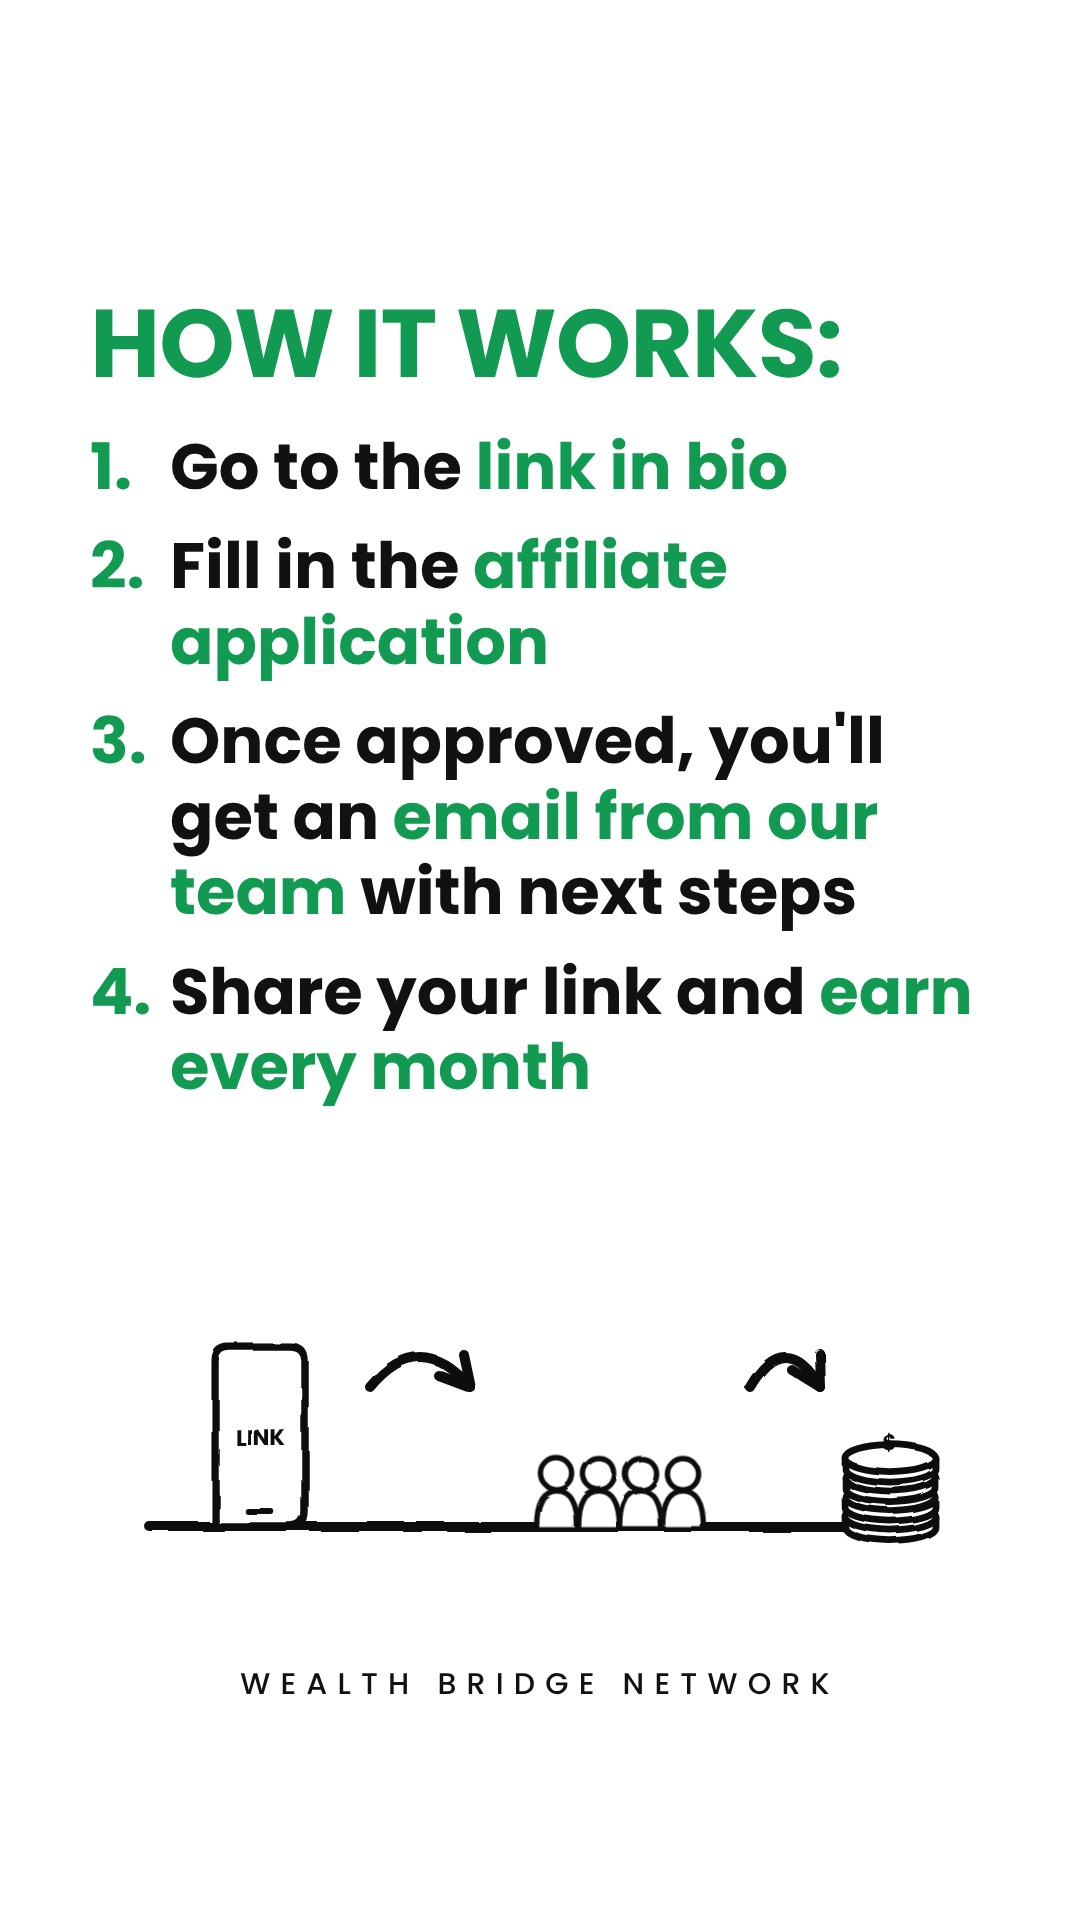
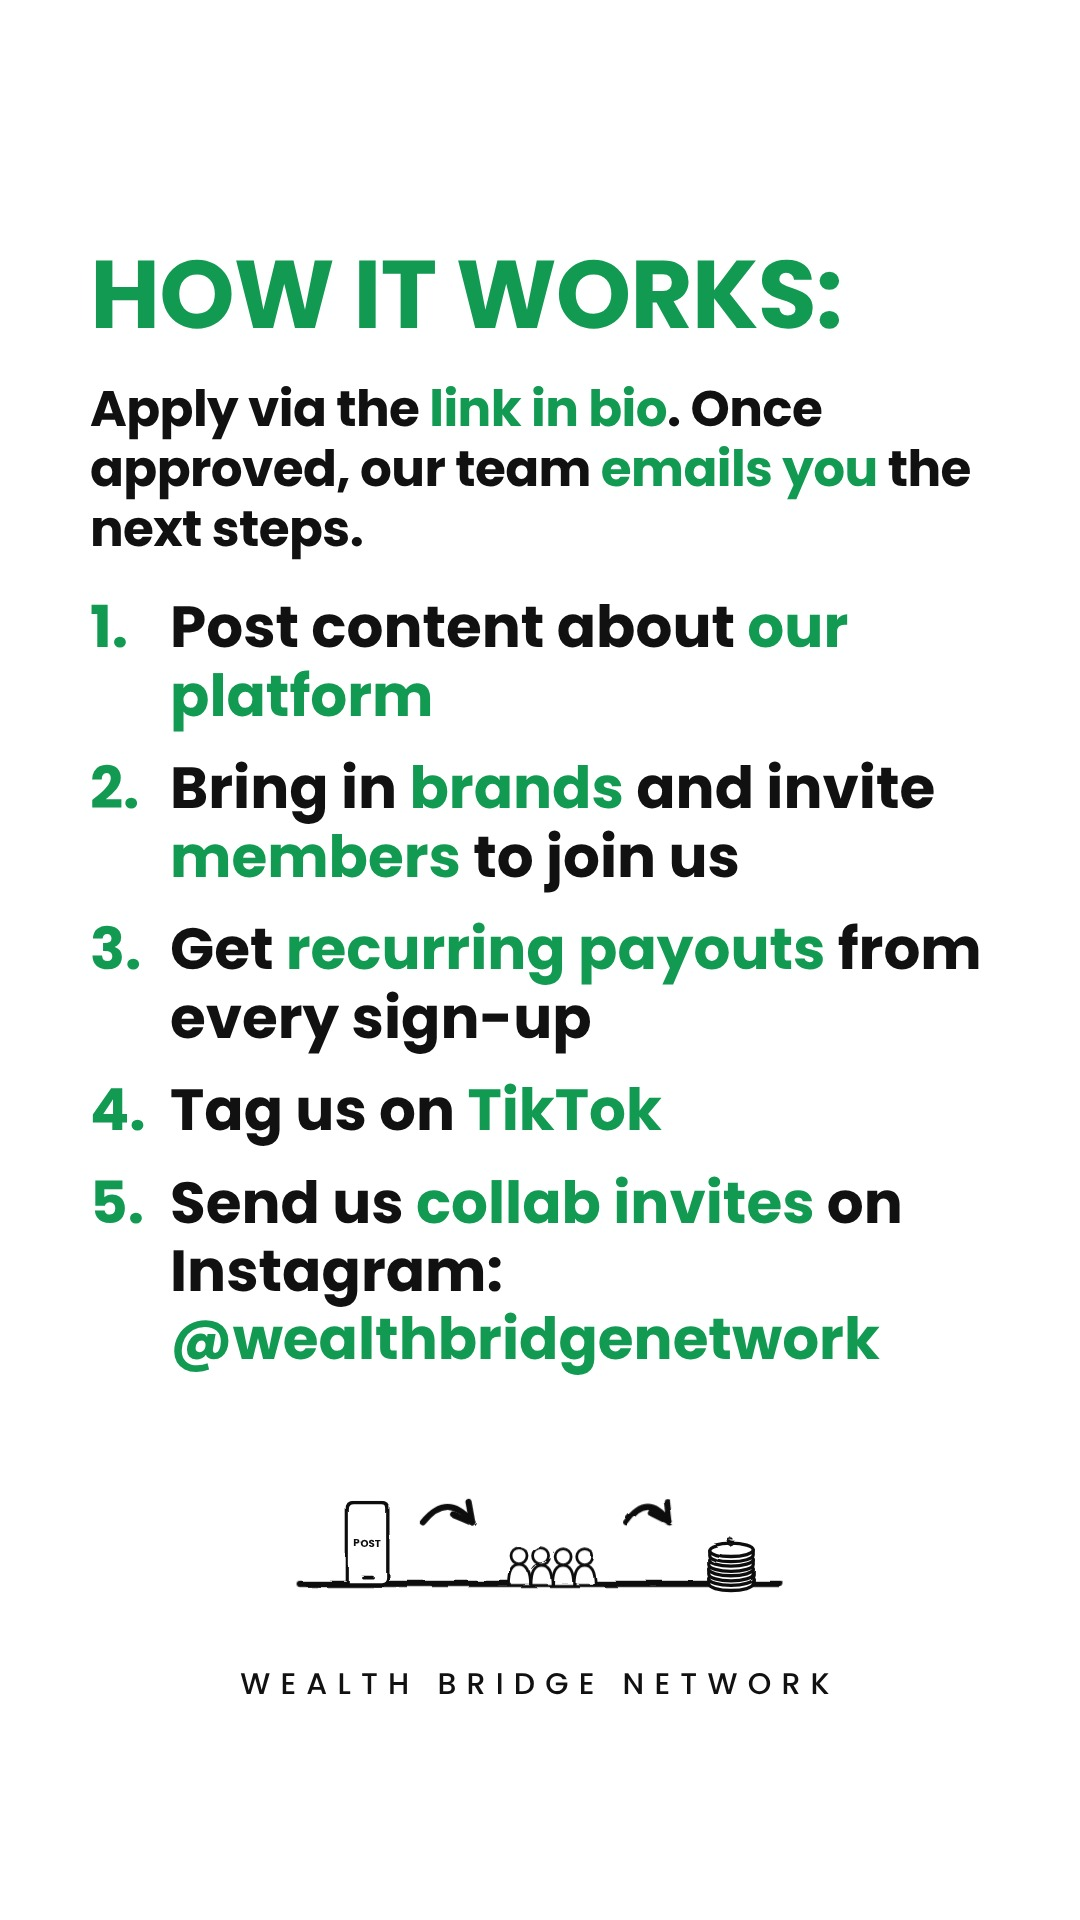
Highlights: affiliate how-it-works (post, bring brands/members, recurring payouts, tag on TikTok, IG collab invites)
Claude-Session: https://claude.ai/code/session_01XWHiAuJ5usg3NqhhkBZ2QK

Changed region(s): [[0.0611, 0.125, 0.9167, 0.8438], [0.0917, 0.5625, 0.1222, 0.6562], [0.0917, 0.375, 0.1222, 0.4375]]

diff --git a/content/highlights.py b/content/highlights.py
@@ -62,8 +62,10 @@ dict(id="hl-affiliate", title="Affiliate", slides=[
       kick="Earn *recurring money* every month from the people you sign up. Plus a *discounted membership.*", ks=56,
       scene=ground(40, 860, 620) + figure(230, 620, 1.25, "point", "grin") + phone(500, 620, 1.0, "LINK") + moneybag(740, 620, 1.0), vh=640),
  dict(head="How it *works:*", hd=96,
-      items=["Go to the *link in bio*", "Fill in the *affiliate application*", "Once approved, you'll get an *email from our team* with next steps", "Share your link and *earn every month*"], **{"is": 64},
-      scene=ground(60, 840, 360) + phone(170, 360, 0.75, "LINK") + arrow(280, 220, 380, 220, -60) + crowd(530, 360, 0.6, 4, "happy") + arrow(660, 220, 730, 220, -60) + coins(800, 360, 0.75, 4), vh=380),
+      text=["Apply via the *link in bio*. Once approved, our team *emails you* the next steps."], fs=50,
+      items=["Post content about *our platform*", "Bring in *brands* and invite *members* to join us", "Get *recurring payouts* from every sign-up",
+             "Tag us on *TikTok*", "Send us *collab invites* on Instagram: *@wealthbridgenetwork*"], **{"is": 58},
+      scene=ground(60, 840, 240) + phone(170, 240, 0.55, "POST") + arrow(260, 140, 340, 140, -50) + crowd(470, 240, 0.5, 4, "happy") + arrow(590, 140, 660, 140, -50) + coins(760, 240, 0.6, 4), vh=260),
  dict(hook="Share once.\n*Get paid*\n*monthly.*", hs=130,
       scene=lbl(450, 30, "YOUR MONTHS", INK, 40) + arrow(150, 100, 750, 80, -60, GREEN, 12)
       + ground(40, 860, 270) + month(130, 200, 0.7, "JAN") + month(290, 200, 0.7, "FEB") + month(450, 200, 0.7, "MAR")
